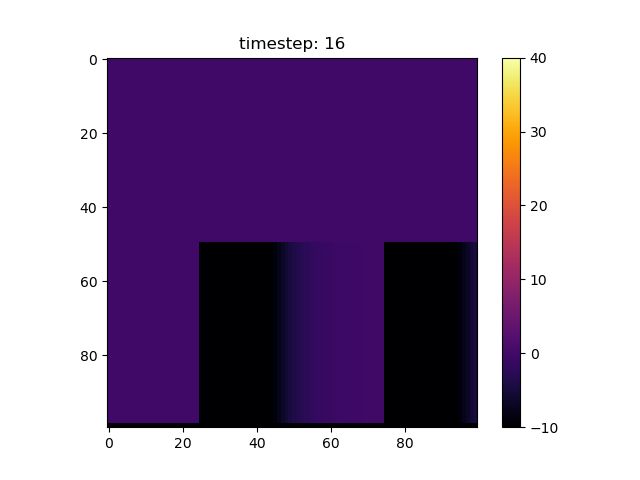
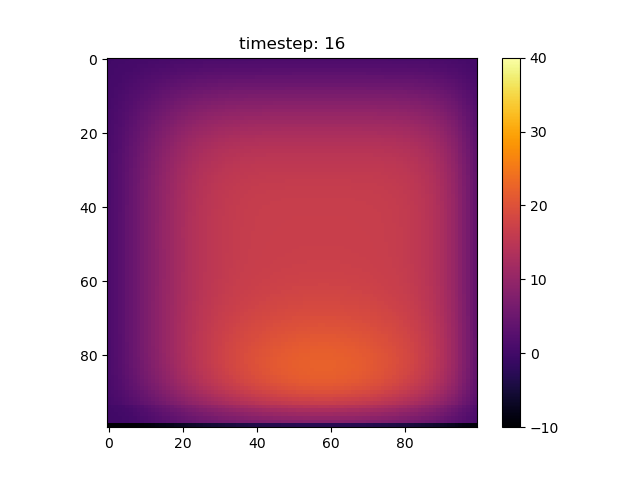
drifting problems

diff --git a/physics.py b/physics.py
@@ -269,13 +269,10 @@ def diffusion(in_raster, resX, resY, diffusion_index, container_temp, loss_over_
 
             temporary_raster = decider_diffusion_temp(in_raster,temporary_raster,x,y, diffusion_index, diffusion_degree)
 
-
-
-
             x+=1
 
-        cooling = coolingRaster(resX, resY, container_temp)
-        temporary_raster = np.add(temporary_raster, cooling)
+        #cooling = coolingRaster(resX, resY, container_temp)
+        #temporary_raster = np.add(temporary_raster, cooling)
         y+=1
 
 
@@ -301,10 +298,8 @@ def decider_diffusion_temp(in_raster, temporary_raster, x, y, diffusion_index, d
 
     #record neighbouring cells' values, as well as maxima/minima
     for neighbour in neighbouring_cells:
-        try:
-            neighbour_values.append(in_raster[neighbour])
-        except IndexError:
-            pass
+        neighbour_values.append(in_raster[neighbour])
+
 
 
     # calculate indices for neighbouring cells
@@ -319,10 +314,9 @@ def decider_diffusion_temp(in_raster, temporary_raster, x, y, diffusion_index, d
 
     #get how many are legal (within bounds)
     division = len(neighs)
-    try:
-        diff = ((1 - diffusion_index) * pixel) / division
-    except RuntimeWarning:
-        pass
+
+    diff = ((1 - diffusion_index) * pixel) / division
+
 
 
     #diffuse
@@ -368,25 +362,21 @@ def neighbourhood(x,y,degree):
     neighbours = []
 
     # loop through rows
-    a = y
-    # loop through rows
+    a = y - degree
+    while a < y + degree :
 
-    while a - degree <= a <= a + degree :
-
-        b = x
         # loop through columns
-        while b - degree <= b <= b + degree:
+        b = x - degree
+        while b < x + degree:
 
 
-            index_rel_a = a
-            index_rel_b = b
-            index_a = a+y
-            index_b = b+x
+            index_rel_a = y-a
+            index_rel_b = x-b
 
             try:
 
                 neighbours.append((index_rel_a,index_rel_b))
-                #neighbours.append((index_a,index_b))
+
 
 
             except IndexError:
@@ -396,71 +386,4 @@ def neighbourhood(x,y,degree):
             b += 1
         a += 1
 
-        return neighbours
-
-
-
-
-
-
-
-
-def gravity():
-    """introduces gravity for liquid in container"""
-    pass
-
-def materials(in_raster, resX, resY, fill_temp):
-    '''Gets information on materials from initial raster.
-
-    0 == Air
-
-    2 == Container
-
-    3 == Pre-fill Liquid
-
-    '''
-
-
-    materials_raster = np.zeros((resX,resY))
-
-    #iterate through input raster to get data on materials
-    x=0
-
-    while x <= resX-1:
-
-        y=0
-
-        while y <= resY-1:
-
-            pixel = in_raster[x,y]
-
-            if pixel == -10:
-                materials_raster[x,y] = 2
-
-            elif pixel == fill_temp:
-                materials_raster[x,y] = 3
-            else:
-                pass
-
-
-
-            y += 1
-
-        x += 1
-
-    return materials_raster
-
-
-#---------------------------------------------------------
-
-#---------------------------------------------------------
-
-
-
-
-#---------------------------------------------------------
-
-
-
-
-
+    return neighbours

diff --git a/visualizer.py b/visualizer.py
@@ -25,8 +25,7 @@ diffusion_index = 0.01
 diffusion_degree = 6
 loss_over_time = 0
 
-# set up list to convert output to gif
-out_rasters = []
+# set up list to convert output to gif r
 gif_duration = 0.5 #second(s)
 
 
